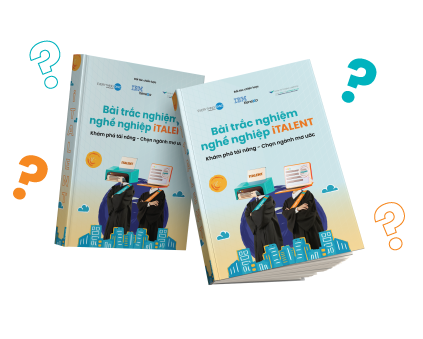
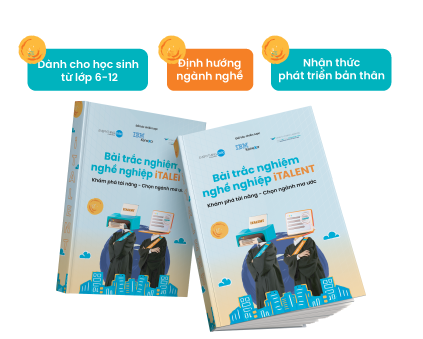
a

diff --git a/index.html b/index.html
@@ -90,7 +90,6 @@
                         <div class="introduction__data">
                             <div class="introduction__text">
                                 <p data-i18n="introduce.text-1"></p>
-                                <p data-i18n="introduce.text-2"></p>
                                 <p data-i18n="introduce.text-3"></p>
                             </div>
                         </div>

diff --git a/assets/css/styles.css b/assets/css/styles.css
@@ -598,7 +598,7 @@ button {
 }
 .introduction__img {
   width: 470px;
-  transform: translateY(-25px);
+  transform: translateY(-40px);
   height: auto;
 }
 .introduction__group {
@@ -1758,6 +1758,10 @@ button {
 
   .popup__icon i {
     transform: translateY(-15px);
+  }
+
+  .introduction__buttons {
+    margin-top: -51px;
   }
 
   .question__img {

diff --git a/assets/scss/components/_breakpoints.scss b/assets/scss/components/_breakpoints.scss
@@ -342,6 +342,12 @@
         }
     }
 
+    .introduction {
+        &__buttons {
+            margin-top: -51px;
+        }
+    }
+
     .question {
         &__img {
             max-width: 380px;

diff --git a/assets/scss/components/_introduction.scss b/assets/scss/components/_introduction.scss
@@ -25,7 +25,7 @@
 
     &__img {
         width: 470px;
-        transform: translateY(-25px);
+        transform: translateY(-40px);
         height: auto;
     }
 
